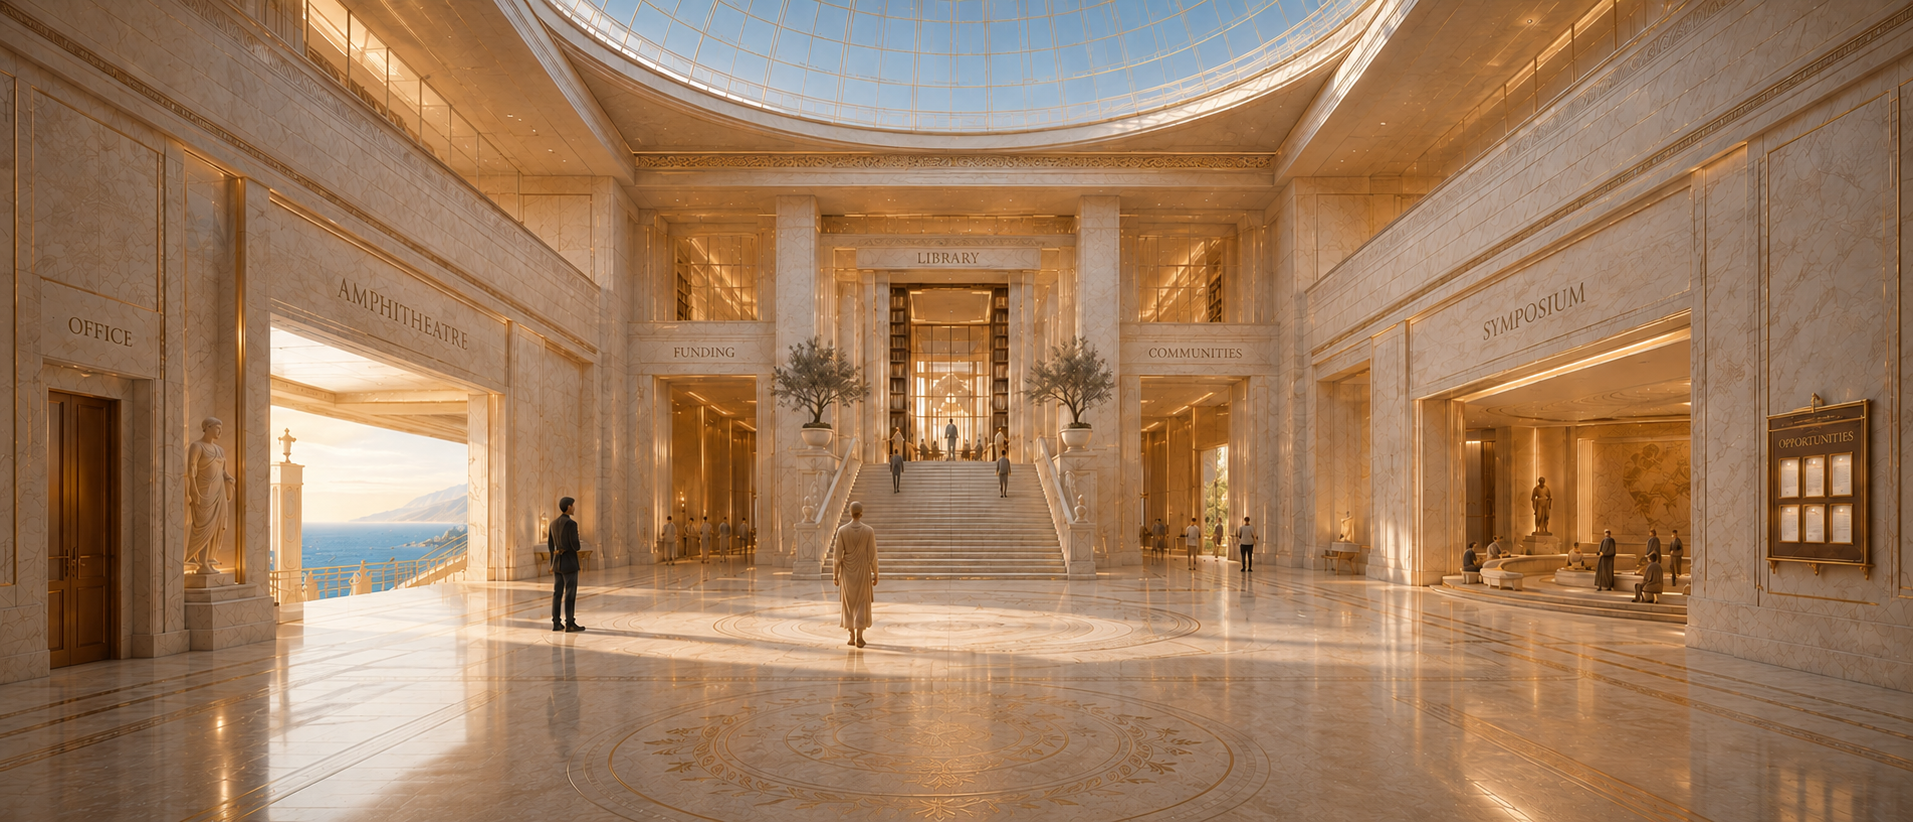
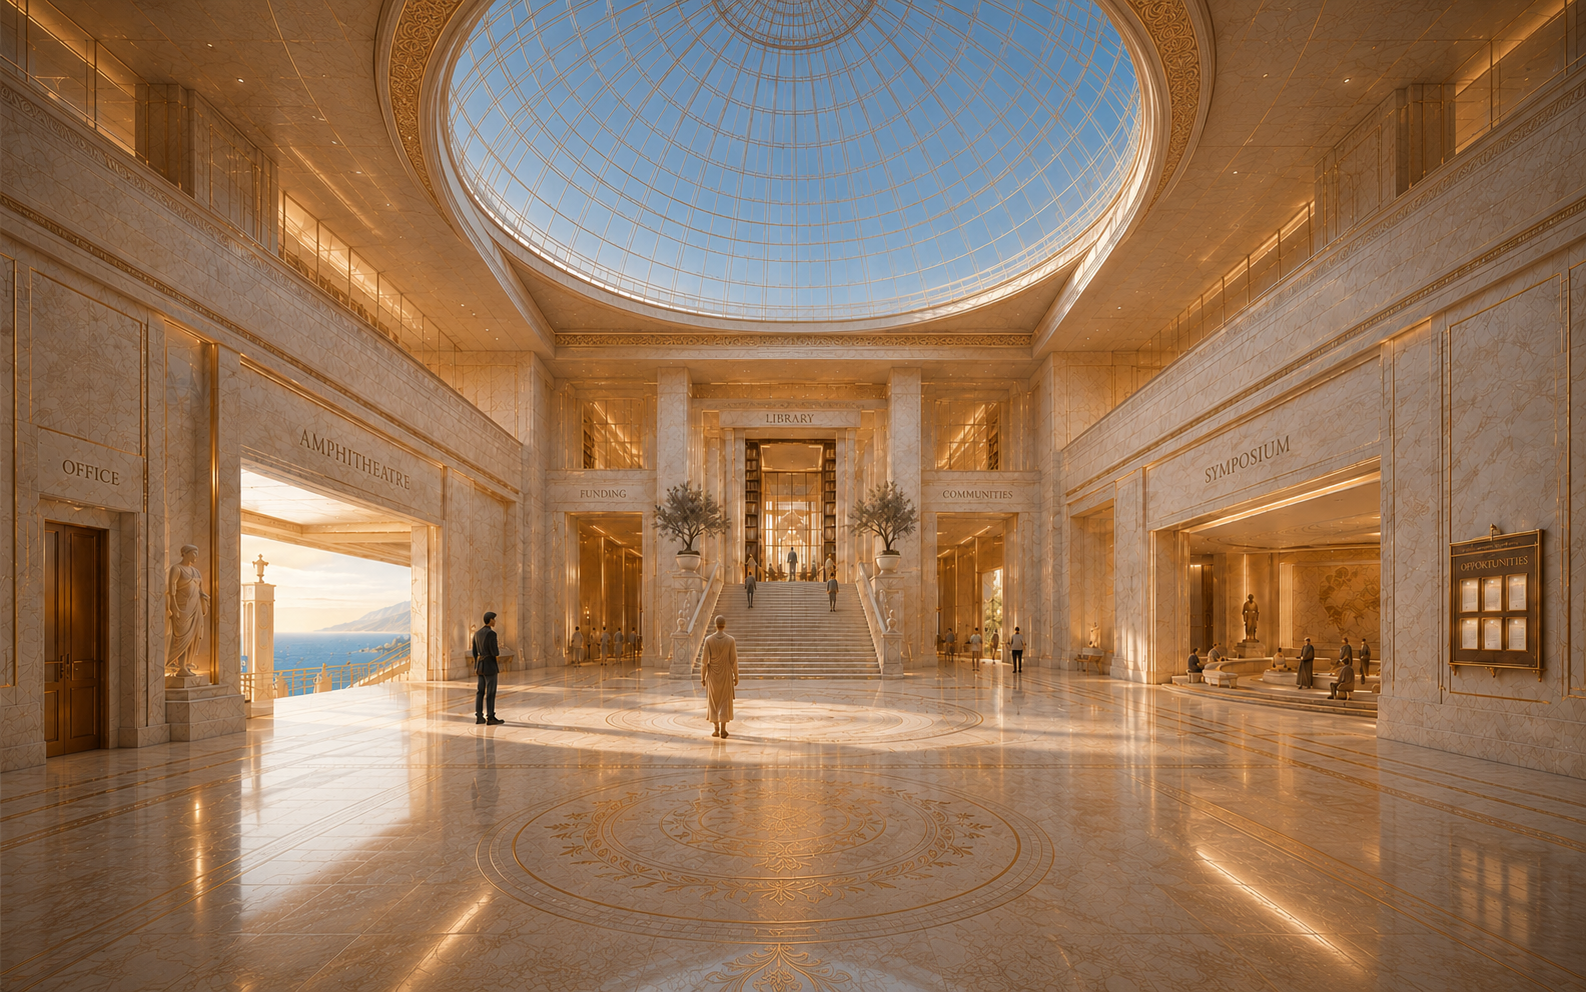
Update main hall render framing

diff --git a/app/globals.css b/app/globals.css
@@ -2251,8 +2251,8 @@ button {
   position: fixed;
   left: 50%;
   top: 50%;
-  width: min(100vw, 232.73vh);
-  height: min(100vh, 42.97vw);
+  width: max(100vw, 159.88vh);
+  height: max(100vh, 62.55vw);
   min-height: 0;
   overflow: hidden;
   border: 0;
@@ -2346,34 +2346,34 @@ button {
 }
 
 .hall-door-office {
-  left: 0.6%;
-  top: 23.4%;
-  width: 10.5%;
-  height: 56.8%;
-  clip-path: polygon(4% 8%, 94% 0, 100% 100%, 0 96%);
+  left: 2.2%;
+  top: 38.6%;
+  width: 8.4%;
+  height: 36.2%;
+  clip-path: polygon(7% 6%, 92% 0, 100% 98%, 0 100%);
 }
 
 .hall-door-amphitheater {
-  left: 14%;
-  top: 19.4%;
-  width: 19.8%;
-  height: 47.4%;
-  clip-path: polygon(0 0, 100% 21%, 98% 100%, 3% 92%);
+  left: 14.2%;
+  top: 37.5%;
+  width: 15.2%;
+  height: 35.2%;
+  clip-path: polygon(5% 0, 100% 12%, 97% 100%, 0 91%);
 }
 
 .hall-door-funding {
-  left: 33.1%;
-  top: 34.5%;
-  width: 8%;
-  height: 31.2%;
-  clip-path: polygon(0 0, 100% 1%, 97% 100%, 2% 99%);
+  left: 35.9%;
+  top: 49.4%;
+  width: 7.4%;
+  height: 22.2%;
+  clip-path: polygon(2% 0, 100% 1%, 97% 100%, 0 98%);
 }
 
 .hall-door-library {
   left: 50%;
-  top: 21.7%;
-  width: 15.7%;
-  height: 33.8%;
+  top: 38.4%;
+  width: 12.3%;
+  height: 23.8%;
   transform: translateX(-50%);
   clip-path: polygon(2% 0, 98% 0, 100% 100%, 0 100%);
 }
@@ -2384,27 +2384,27 @@ button {
 }
 
 .hall-door-symposium {
-  right: 7.2%;
-  top: 18.8%;
-  width: 21%;
-  height: 55.8%;
-  clip-path: polygon(100% 0, 100% 99%, 4% 89%, 0 41%);
+  right: 8.4%;
+  top: 37.6%;
+  width: 18.4%;
+  height: 36.4%;
+  clip-path: polygon(100% 0, 100% 96%, 4% 91%, 0 36%);
 }
 
 .hall-door-communities {
-  left: 59.7%;
-  top: 34.4%;
-  width: 8.5%;
-  height: 31.8%;
-  clip-path: polygon(0 1%, 100% 0, 98% 100%, 2% 98%);
+  left: 58.8%;
+  top: 49.2%;
+  width: 7.4%;
+  height: 22.8%;
+  clip-path: polygon(0 1%, 98% 0, 100% 98%, 3% 100%);
 }
 
 .hall-door-opportunities {
-  right: 0.8%;
-  top: 35.5%;
-  width: 6.4%;
-  height: 31.7%;
-  clip-path: polygon(8% 0, 100% 5%, 96% 100%, 0 95%);
+  right: 2.4%;
+  top: 45.4%;
+  width: 7.2%;
+  height: 20.6%;
+  clip-path: polygon(8% 0, 100% 5%, 96% 100%, 0 94%);
 }
 
 .room-layout {